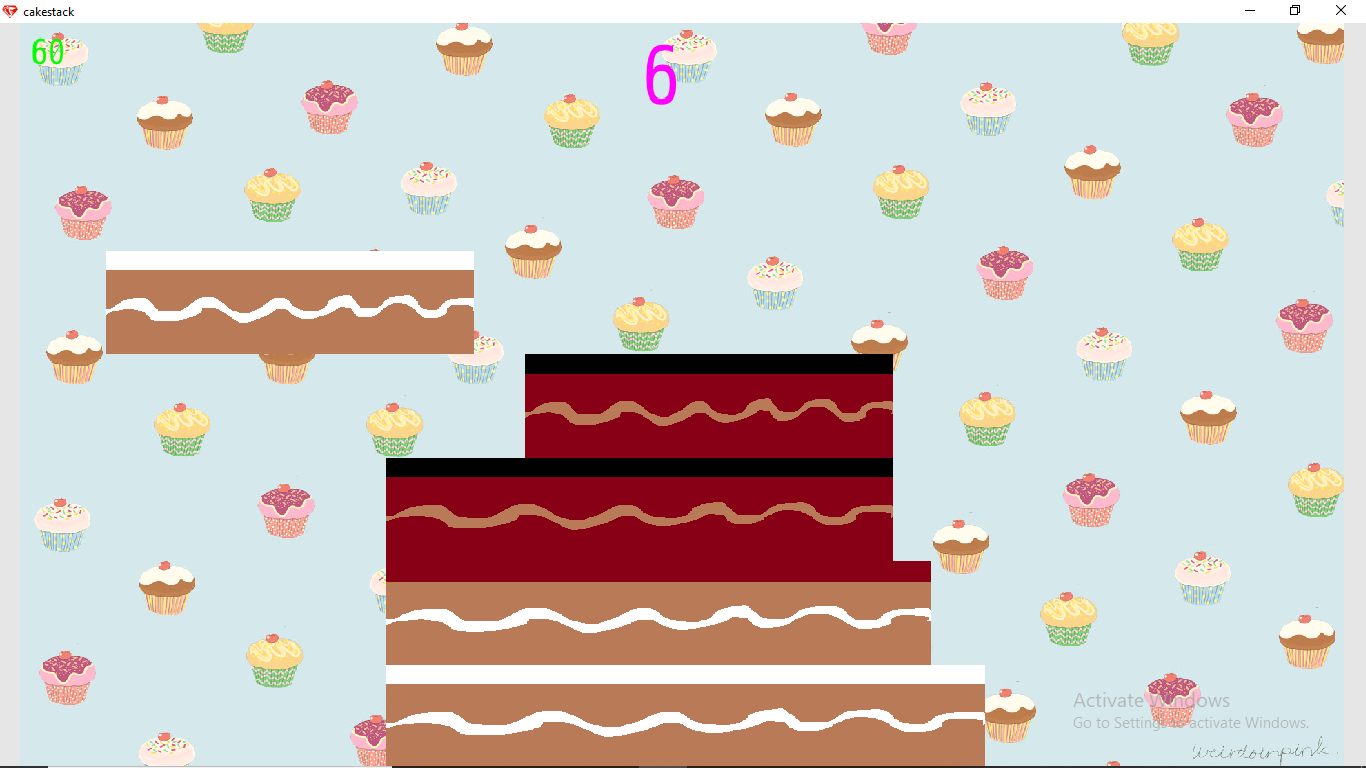
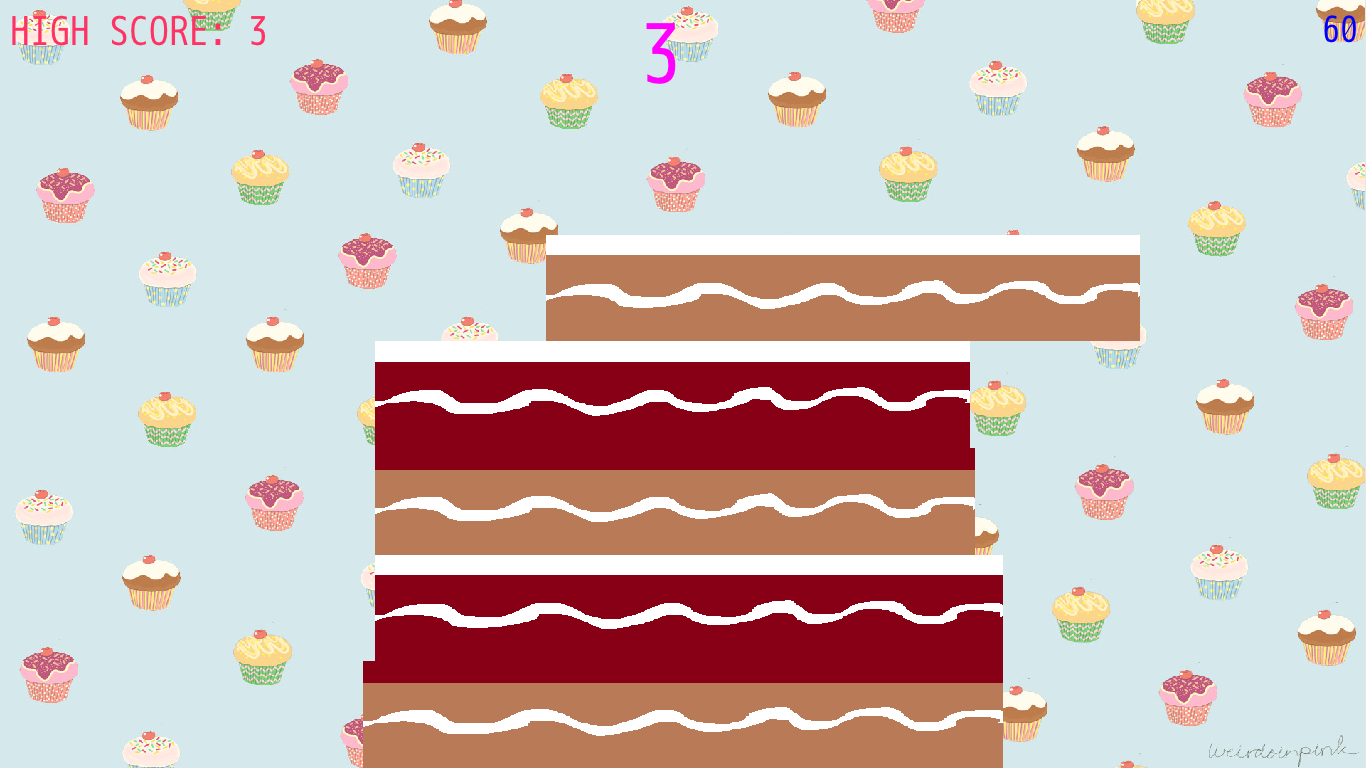
Update v0.5 released!
What's new?

Optimizations for the game!

diff --git a/app/main.rb b/app/main.rb
@@ -1,6 +1,5 @@
 # Written by Rabia Alhaffar in 14/November/2020
 # Stacking game for teeny-tiny game jam
-# Updated: 3/June/2021
 # I got cutting block logic from following repo: https://github.com/tma02/stack
 # Background: http://getwallpapers.com/collection/cute-cupcake-backgrounds
 # Stacking sound: https://freesound.org/people/kemitix/sounds/41869
@@ -29,7 +28,7 @@ def tick args
     w: 1280,
     h: 720,
     path: "sprites/background.jpg"
-  }.sprite
+  }.to_sprite
   
   # Draw FPS
   args.outputs.primitives << {
@@ -41,7 +40,7 @@ def tick args
     g: 0,
     b: 255,
     a: 255,
-  }.label
+  }.to_label
   
   # Check and render current scene
   if args.state.scene == 0
@@ -106,7 +105,7 @@ def game args
     g: 0,
     b: 255,
     a: 255
-  }.label
+  }.to_label
   
   args.outputs.primitives << {
     x: 10,
@@ -117,13 +116,13 @@ def game args
     g: 50,
     b: 100,
     a: 255
-  }.label
+  }.to_label
   
-  args.outputs.primitives << args.state.start_block.sprite
-  args.outputs.primitives << args.state.current_block.sprite
+  args.outputs.primitives << args.state.start_block.to_sprite
+  args.outputs.primitives << args.state.current_block.to_sprite
   
   args.state.blocks.each do |r|
-    args.outputs.primitives << r.sprite
+    args.outputs.primitives << r.to_sprite
   end
   
   # If key space pressed or clicked, Stack!
@@ -157,6 +156,10 @@ def game args
         h: args.state.current_block.h,
         path: args.state.current_block.path
       })
+      
+      if args.state.blocks.length + 1 > 5
+        args.state.blocks.delete_at(0)
+      end
 	
       # Setting width of movement block with last block stacked, With random cake image...
       args.state.current_block.w = args.state.blocks[args.state.blocks.length() - 1].w
@@ -196,14 +199,14 @@ def lose args
     g: 0,
     b: 0,
     a: 255
-  }.label
+  }.to_label
   
   args.outputs.primitives << {
     x: 385,
     y: 400.from_top,
     text: "Click anywhere to restart game!",
     size_enum: 8
-  }.label
+  }.to_label
   
   # Restart game if user click...
   if args.inputs.keyboard.key_up.space || args.inputs.mouse.click || (args.state.touched == 1 && (args.state.touched != args.state.touched_previously))
